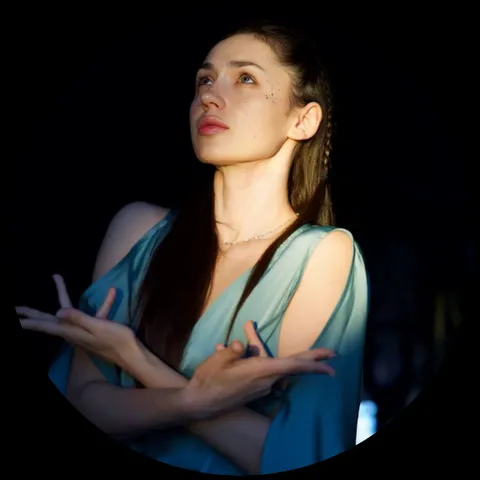
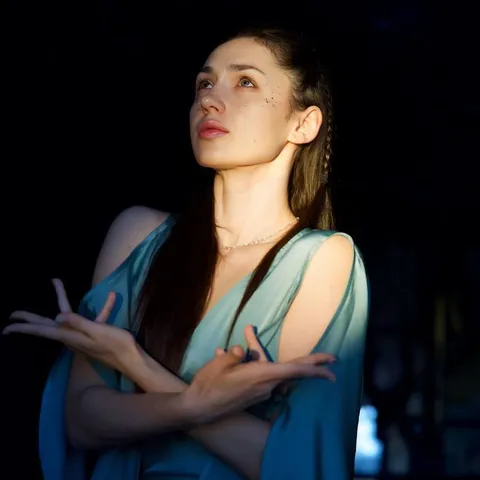
Юра Ра: регалии, описание, практики и лекции; добавлен в Новогоднюю мистерию. Даная: новое фото

diff --git a/fs.js b/fs.js
@@ -9,7 +9,7 @@
   'use strict';
 
   // Меняется при каждом обновлении данных: по нему сбрасывается кэш JSON и MD
-  var VERSION = '2026.10.22-6';
+  var VERSION = '2026.10.22-7';
 
   if (window.FestSun) { window.FestSun.scan(); return; }
 

diff --git a/shared/content/masters/yura-ra.md b/shared/content/masters/yura-ra.md
@@ -1,3 +1,8 @@
 ## Юра Ра
 
-Заглушка: полный текст появится позже.
+### Практики и лекции
+
+- Богатырские практики
+- Секреты миллиардера
+- Осознанные сновидения
+- Лекции по развитию финансового мышления от основателя сети ретрит-центров, бизнесмена и миллиардера Юры Ра
